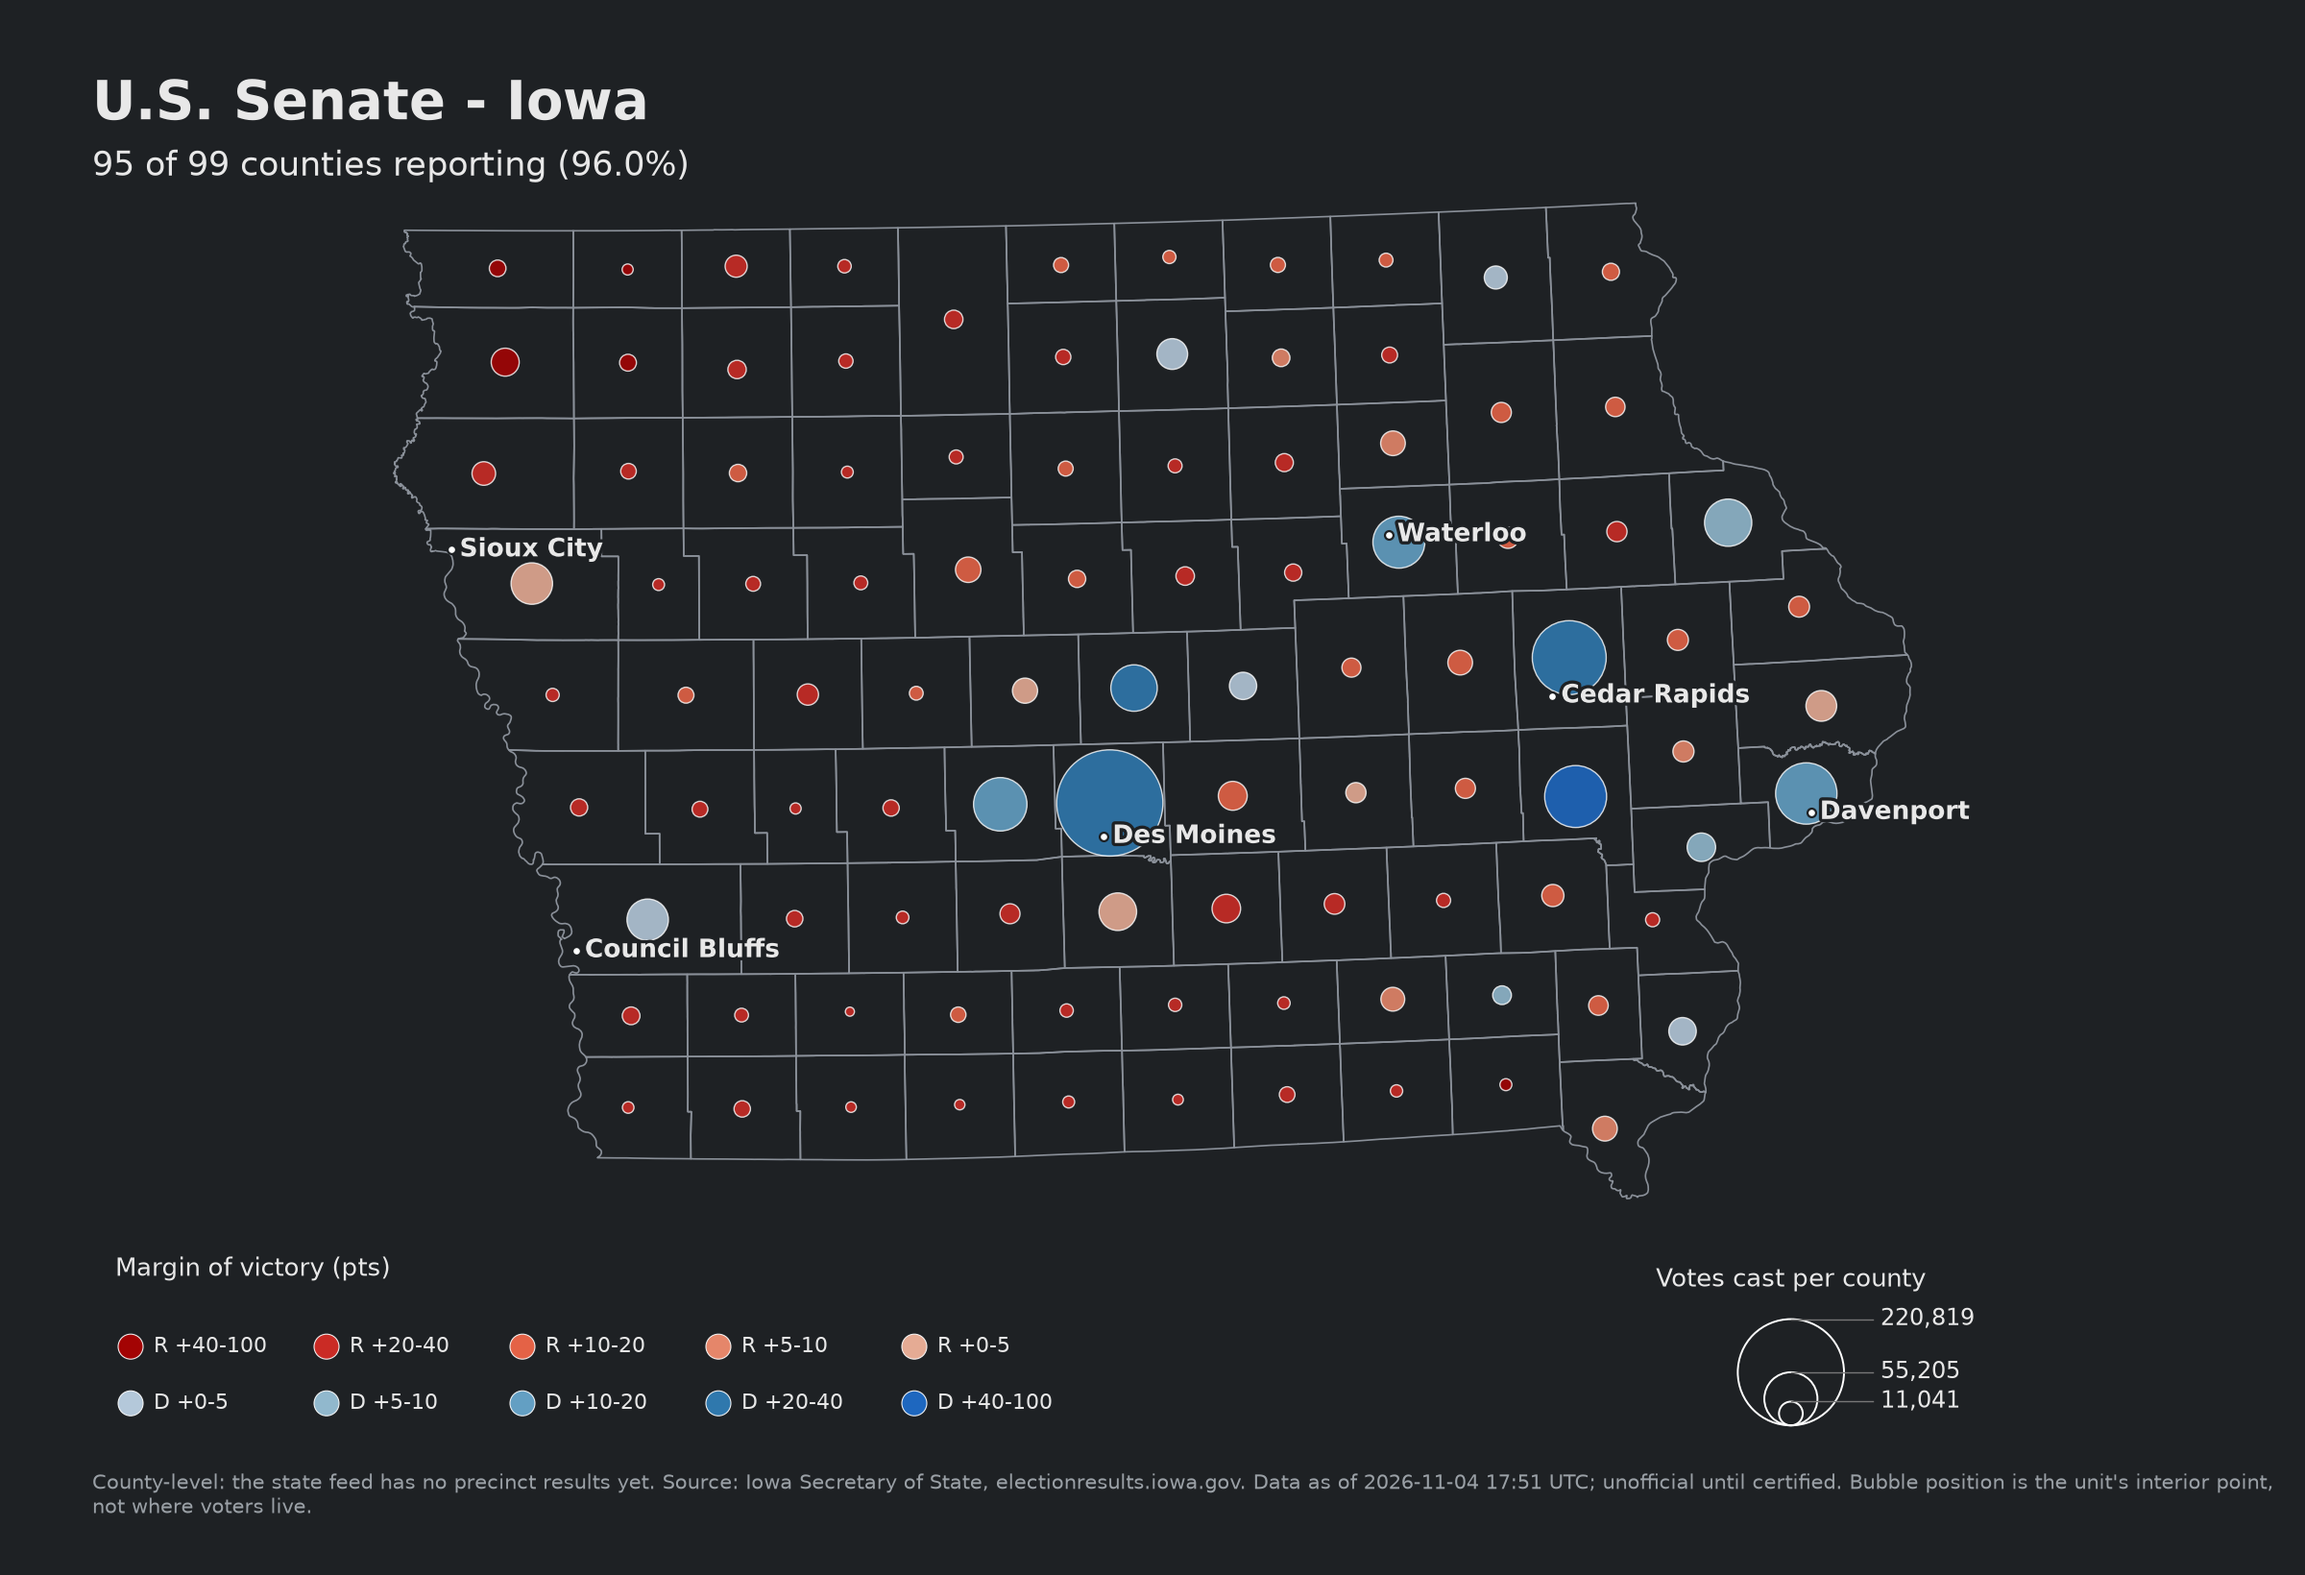
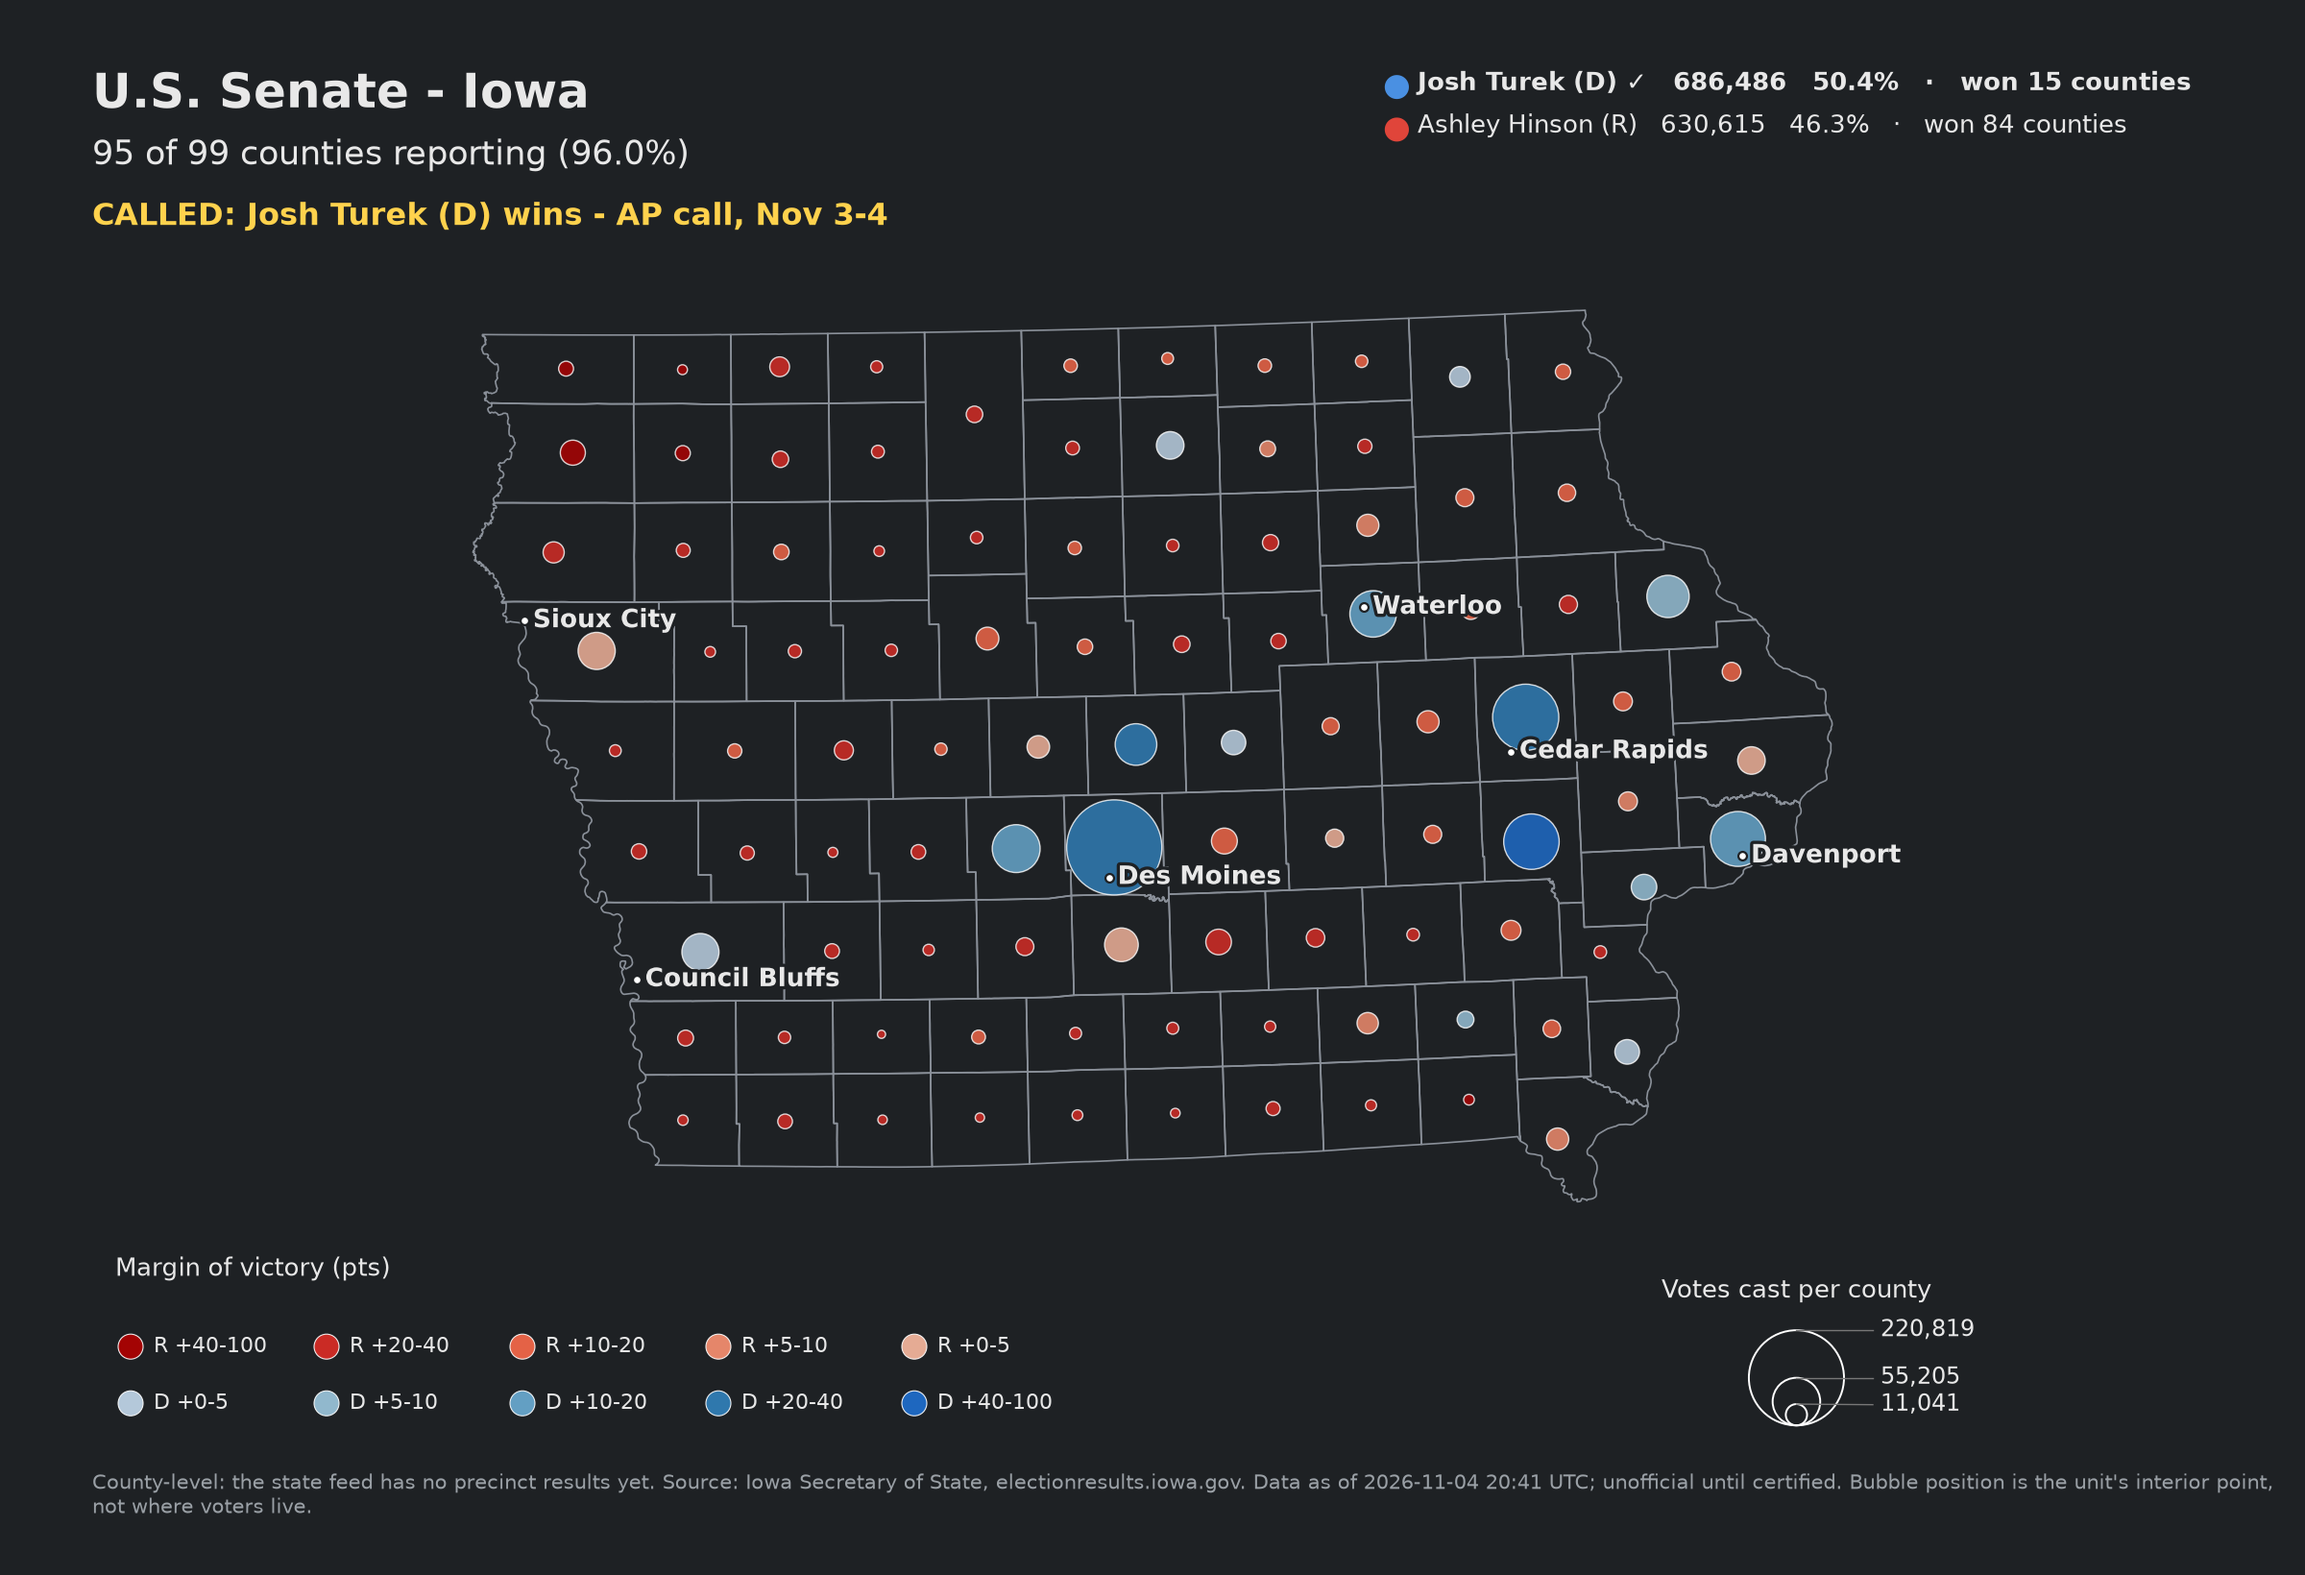
Update election margin maps as of 2026-11-04 20:42 UTC

diff --git a/index.html b/index.html
@@ -2,7 +2,7 @@
 <meta name="viewport" content="width=device-width,initial-scale=1"><title>2026 Election Margin Maps</title>
 <style>:root{--bg:#1e2124;--fg:#e8e8e8;--mute:#9aa0a6}body{margin:0;padding:16px;background:var(--bg);color:var(--fg);font:16px system-ui,sans-serif}
 h1{margin:0 0 4px}p{color:var(--mute);max-width:60em}main{display:grid;grid-template-columns:repeat(auto-fill,minmax(min(100%,480px),1fr));gap:20px}
-figure{margin:0}img{width:100%;height:auto;border-radius:6px}figcaption{padding:8px 2px}a{color:inherit}</style></head><body>
+figure{margin:0}img{width:100%;height:auto;border-radius:6px}figcaption{padding:8px 2px}a{color:inherit}.call{color:#ffd24d;font-weight:600}</style></head><body>
 <h1>2026 Election Margin Maps</h1>
 <p>Margin of victory by unit (blue = Democratic, red = Republican); bubble area = votes cast. Results come from each state's official
-election site and are unofficial until certified. Maps marked FINAL are no longer updated.</p><main><figure><a href="maps/ia-governor.png"><img src="maps/ia-governor.png" alt="Governor - Iowa" loading="lazy"></a><figcaption><b>Governor - Iowa</b><br>95 of 99 counties reporting (96%)<br><small>county-level &middot; as of 2026-11-04 17:51 UTC</small></figcaption></figure><figure><a href="maps/ia-senate.png"><img src="maps/ia-senate.png" alt="U.S. Senate - Iowa" loading="lazy"></a><figcaption><b>U.S. Senate - Iowa</b><br>95 of 99 counties reporting (96%)<br><small>county-level &middot; as of 2026-11-04 17:51 UTC</small></figcaption></figure><figure><a href="maps/nc-senate.png"><img src="maps/nc-senate.png" alt="U.S. Senate - North Carolina" loading="lazy"></a><figcaption><b>U.S. Senate - North Carolina</b><br>100 of 100 counties with votes recorded (source does not publish a reporting %)<br><small>county-level &middot; as of 2026-11-04 11:40 UTC</small></figcaption></figure><figure><a href="maps/sc-governor.png"><img src="maps/sc-governor.png" alt="Governor - South Carolina" loading="lazy"></a><figcaption><b>Governor - South Carolina</b><br>Results posted for 46 of 46 counties (source does not publish a reporting %)<br><small>county-level &middot; as of 2026-11-04 05:04 UTC</small></figcaption></figure><figure><a href="maps/sc-senate.png"><img src="maps/sc-senate.png" alt="U.S. Senate - South Carolina" loading="lazy"></a><figcaption><b>U.S. Senate - South Carolina</b><br>Results posted for 46 of 46 counties (source does not publish a reporting %)<br><small>county-level &middot; as of 2026-11-04 05:04 UTC</small></figcaption></figure></main></body></html>
+election site and are unofficial until certified. Maps marked FINAL are no longer updated.</p><main><figure><a href="maps/ia-governor.png"><img src="maps/ia-governor.png" alt="Governor - Iowa" loading="lazy"></a><figcaption><b>Governor - Iowa</b><br>95 of 99 counties reporting (96%)<br><span class="call">CALLED: Rob Sand (D) wins - AP call, Nov 3-4</span><br><small>Rob Sand (D) 757,326 &middot; 55.4% &middot; won 25<br>Zach Lahn (R) 607,415 &middot; 44.4% &middot; won 74<br>county-level &middot; as of 2026-11-04 20:41 UTC</small></figcaption></figure><figure><a href="maps/ia-senate.png"><img src="maps/ia-senate.png" alt="U.S. Senate - Iowa" loading="lazy"></a><figcaption><b>U.S. Senate - Iowa</b><br>95 of 99 counties reporting (96%)<br><span class="call">CALLED: Josh Turek (D) wins - AP call, Nov 3-4</span><br><small>Josh Turek (D) 686,486 &middot; 50.4% &middot; won 15<br>Ashley Hinson (R) 630,615 &middot; 46.3% &middot; won 84<br>county-level &middot; as of 2026-11-04 20:41 UTC</small></figcaption></figure><figure><a href="maps/nc-senate.png"><img src="maps/nc-senate.png" alt="U.S. Senate - North Carolina" loading="lazy"></a><figcaption><b>U.S. Senate - North Carolina</b><br>100 of 100 counties with votes recorded<br><span class="call">CALLED: Roy Cooper (D) wins - AP call, Nov 3</span><br><small>Roy Cooper (D) 2,467,963 &middot; 58.7% &middot; won 43<br>Michael Whatley (R) 1,643,088 &middot; 39.1% &middot; won 57<br>county-level &middot; as of 2026-11-04 11:40 UTC</small></figcaption></figure><figure><a href="maps/nc-senate-precincts.png"><img src="maps/nc-senate-precincts.png" alt="U.S. Senate - NC, precincts (partial)" loading="lazy"></a><figcaption><b>U.S. Senate - NC, precincts (partial)</b><br>2,625 of 2,625 precincts with votes recorded<br><span class="call">CALLED: Roy Cooper (D) wins - AP call, Nov 3</span><br><small>Roy Cooper (D) 1,652,533 &middot; 54.5% &middot; won 1495<br>Michael Whatley (R) 1,306,918 &middot; 43.1% &middot; won 1126<br>precinct-level &middot; as of 2026-11-04 11:40 UTC</small></figcaption></figure><figure><a href="maps/sc-governor.png"><img src="maps/sc-governor.png" alt="Governor - South Carolina" loading="lazy"></a><figcaption><b>Governor - South Carolina</b><br>Results posted for 46 of 46 counties<br><span class="call">CALLED: Alan Wilson (R) wins - declared by news outlets; Johnson conceded</span><br><small>Alan Wilson (R) 1,046,730 &middot; 51.7% &middot; won 29<br>Jermaine Johnson (D) 951,437 &middot; 47.0% &middot; won 17<br>county-level &middot; as of 2026-11-04 05:04 UTC</small></figcaption></figure><figure><a href="maps/sc-senate.png"><img src="maps/sc-senate.png" alt="U.S. Senate - South Carolina" loading="lazy"></a><figcaption><b>U.S. Senate - South Carolina</b><br>Results posted for 46 of 46 counties<br><span class="call">CALLED: Annie Andrews (D) wins - AP call, Nov 3</span><br><small>Annie Andrews (D) 1,034,418 &middot; 51.0% &middot; won 25<br>Darline Graham (R) 948,133 &middot; 46.8% &middot; won 21<br>county-level &middot; as of 2026-11-04 05:04 UTC</small></figcaption></figure></main></body></html>
